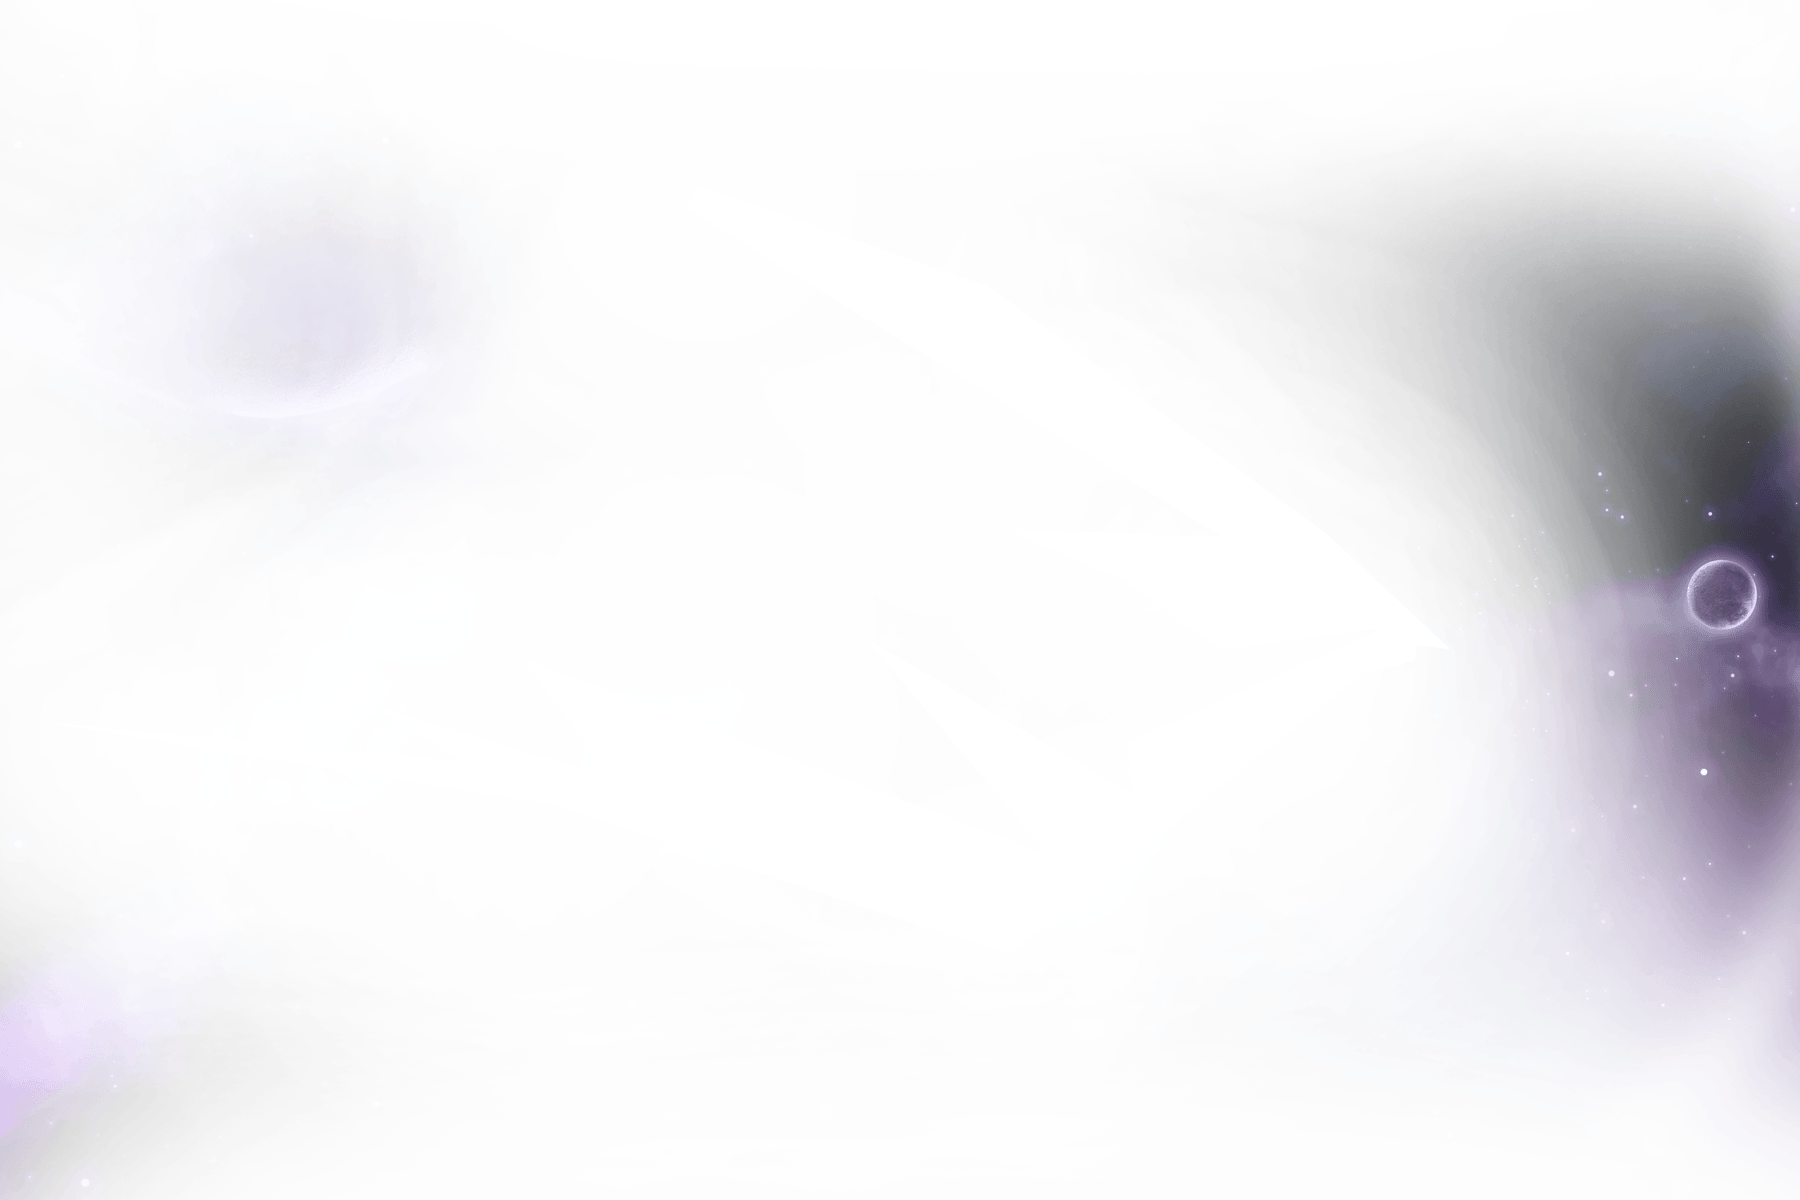
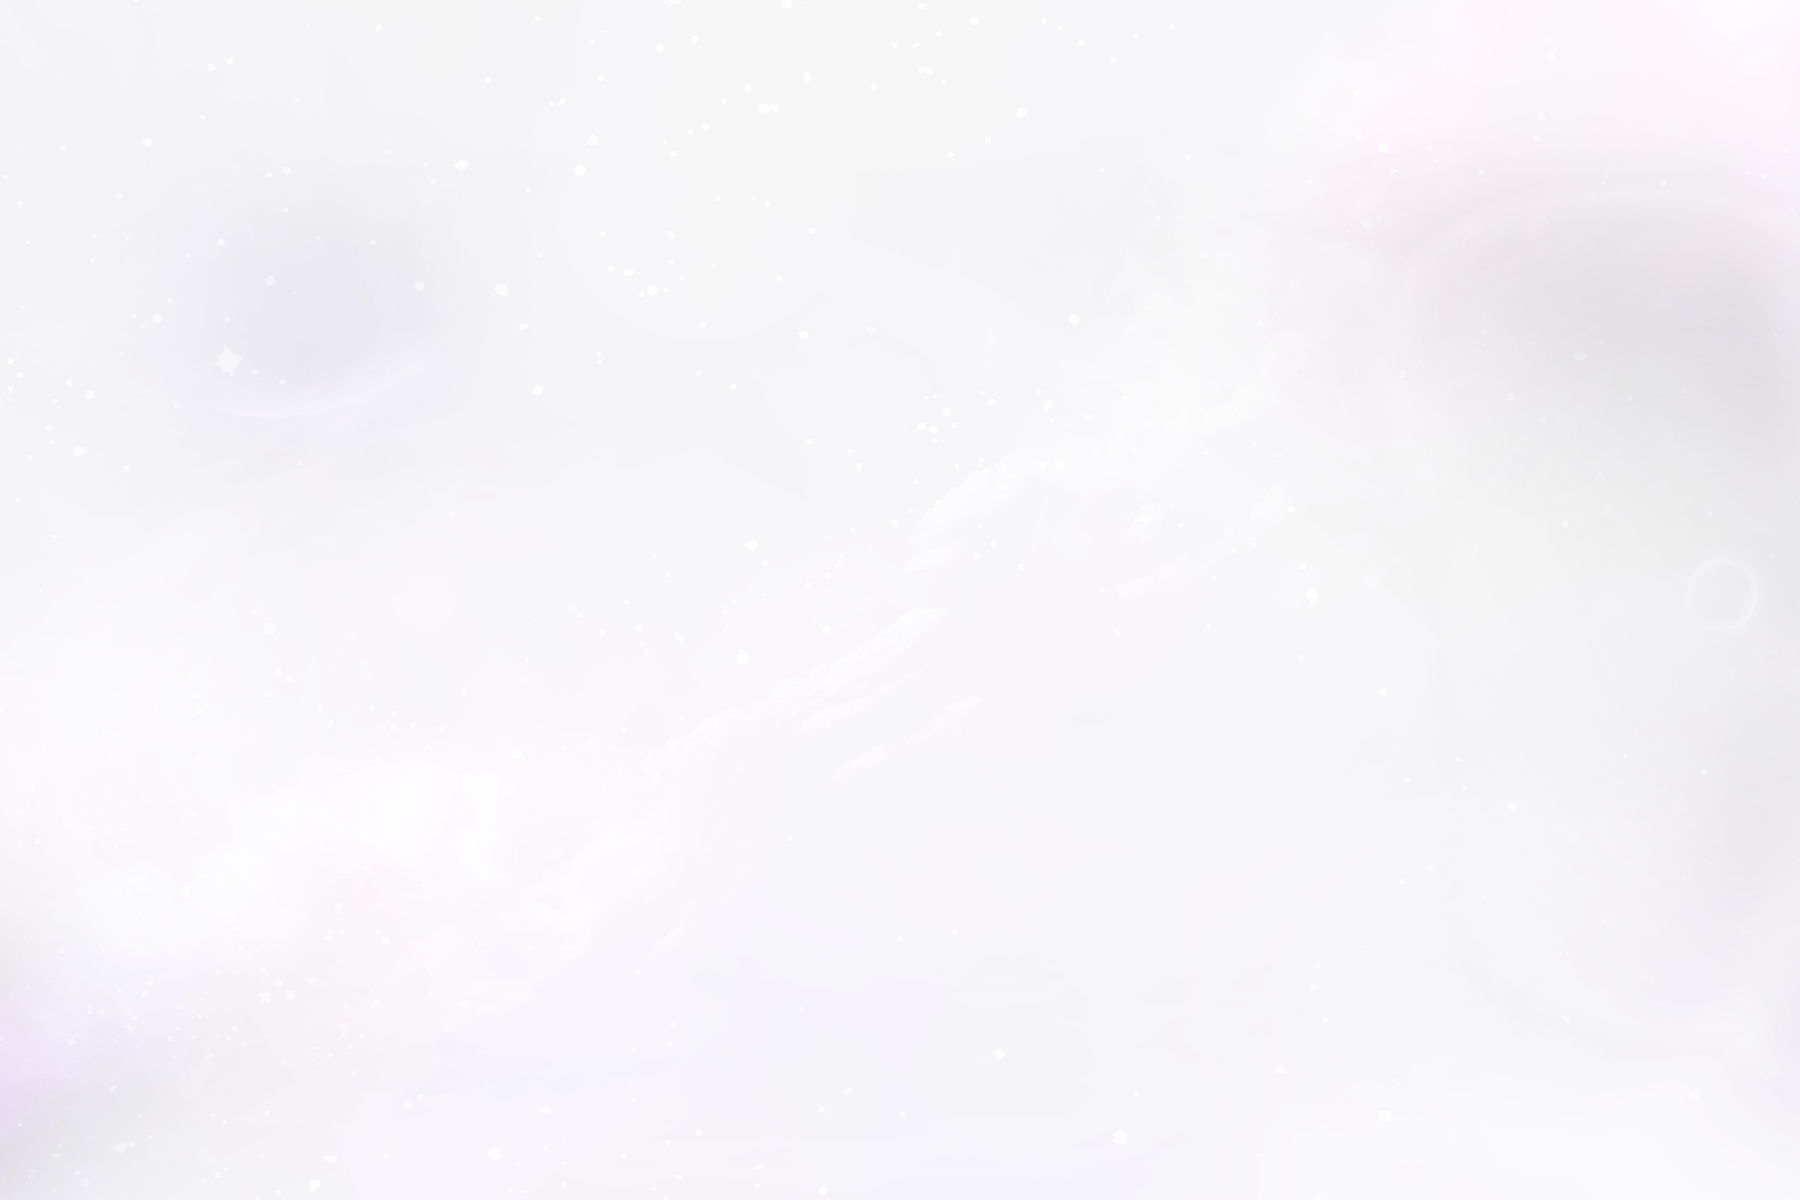
ajuste fotos y fondos

Changed region(s): [[0.7778, 0.1542, 1.0, 0.8633]]

diff --git a/src/scss/index.scss b/src/scss/index.scss
@@ -1282,11 +1282,11 @@ ul {
 
 
 .horizont{ 
-  top: -30vh;
+  top: -23vh;
   left:-25vw;
   overflow: hidden;
   height:auto;
-  max-width:70vw; 
+  max-width:33vw; 
   margin:auto;
   position: absolute;
   @include tablet {
